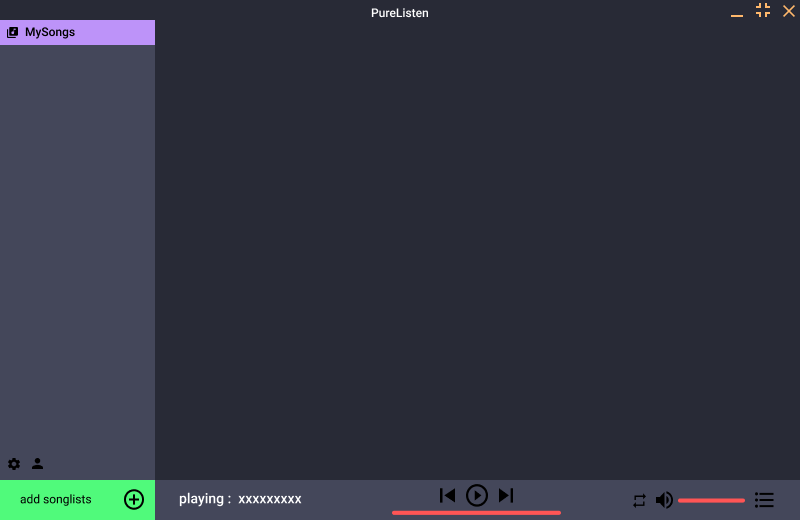
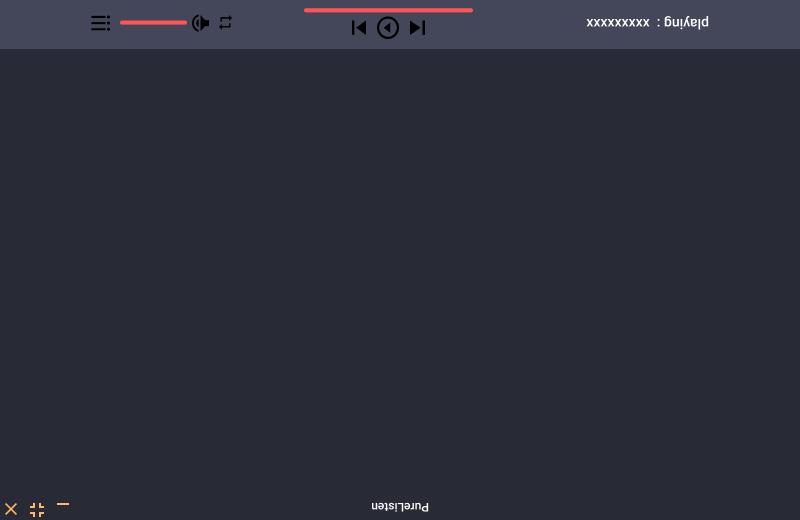
💔  暂停开发

diff --git a/src/ui/main.tsx b/src/ui/main.tsx
@@ -1,8 +1,7 @@
-import { Grid } from "@material-ui/core";
 import * as React from "react";
 import ContentPage from "./components/content/content";
-import SongList from "./components/songlist/songlist";
 import TitleBar from "./components/titlebar/titlebar";
+import PlayerBar from "./components/playerbar/playerbar";
 import { makeStyles } from "@material-ui/core/styles";
 
 const cssStyle = makeStyles({
@@ -12,12 +11,15 @@ const cssStyle = makeStyles({
   },
   mainBodyCss: {
     display: "grid",
+    gridTemplateColumns: "repeat(4,1fr)",
+    gridTemplateRows: "1fr 13fr 1fr 1fr",
     gridTemplateAreas: ` 
     "header header header header" 
-    "leftPanel main main main"
+    "main main main main"
+    ". . . ."
     "footer footer footer footer"
     `,
-    gridGap: "1rem",
+    gap: "0.5rem",
   },
 });
 
@@ -25,10 +27,10 @@ const Main = () => {
   const classes = cssStyle();
   return (
     <div className={classes.bodyCss}>
-      <TitleBar />
       <div className={classes.mainBodyCss}>
-        <SongList />
+        <TitleBar />
         <ContentPage />
+        <PlayerBar />
       </div>
     </div>
   );

diff --git a/src/ui/utils/getUrl.tsx b/src/ui/utils/getUrl.tsx
@@ -1,0 +1,13 @@
+import axios from "axios";
+import {parse} from 'node-html-parser'
+
+const url: string = "https://music.163.com/#/my/m/music/playlist?id=161843709"
+
+const getUserSongList = (url: string) => {
+    axios.get(url).then((res) => {
+        // let result:any = parse(res.toString()).querySelector('tbody')
+        console.log(res)
+    })
+}
+
+getUserSongList(url)

diff --git a/src/ui/components/titlebar/titlebar.tsx b/src/ui/components/titlebar/titlebar.tsx
@@ -22,7 +22,7 @@ const cssStyle = makeStyles({
 const TitleBar = () => {
   const classes = cssStyle();
   return (
-    <div className={"header" + " " + classes.container}>
+    <div className={classes.container} style={{ gridArea: "header" }}>
       <div className={classes.moveElement}></div>
       <div
         className={classes.moveElement}

diff --git a/src/ui/components/content/content.tsx b/src/ui/components/content/content.tsx
@@ -2,7 +2,15 @@ import * as React from "react";
 import { makeStyles } from "@material-ui/core/styles";
 
 const ContentPage = () => {
-  return <div className={"main"}>这是首页</div>;
+  return (
+    <div
+      style={{
+        gridArea: "main",
+      }}
+    >
+      这是首页
+    </div>
+  );
 };
 
 export default ContentPage;
